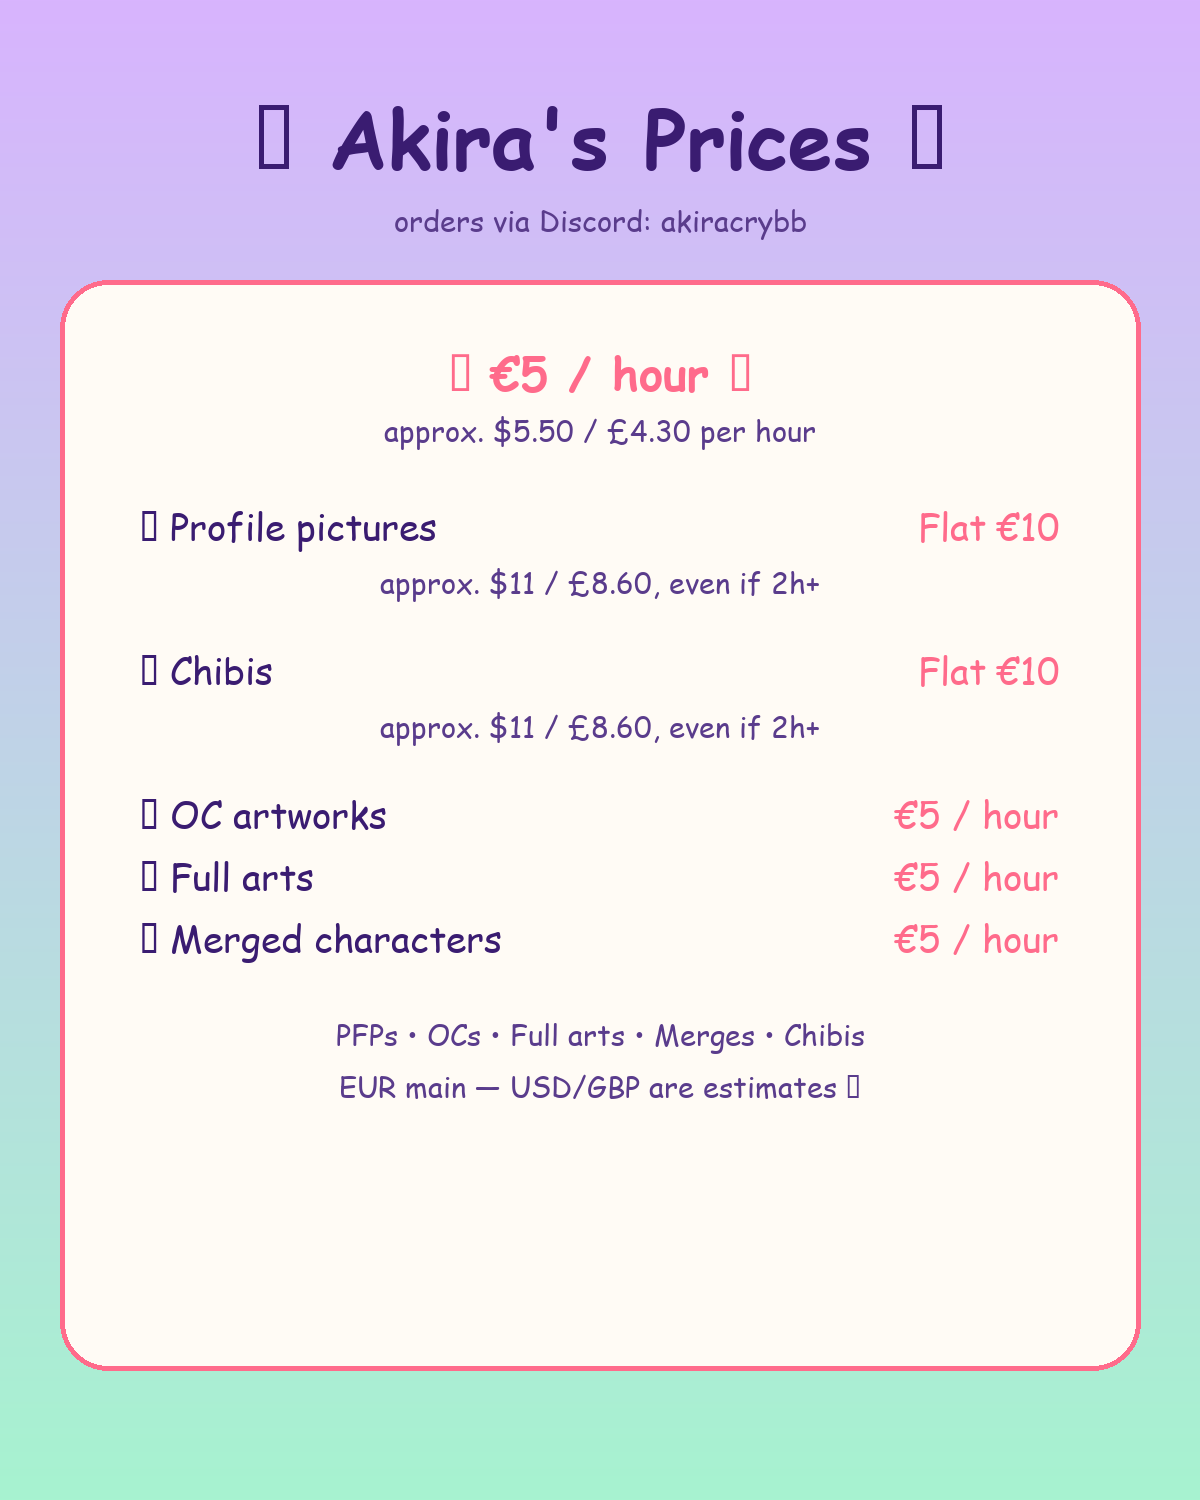
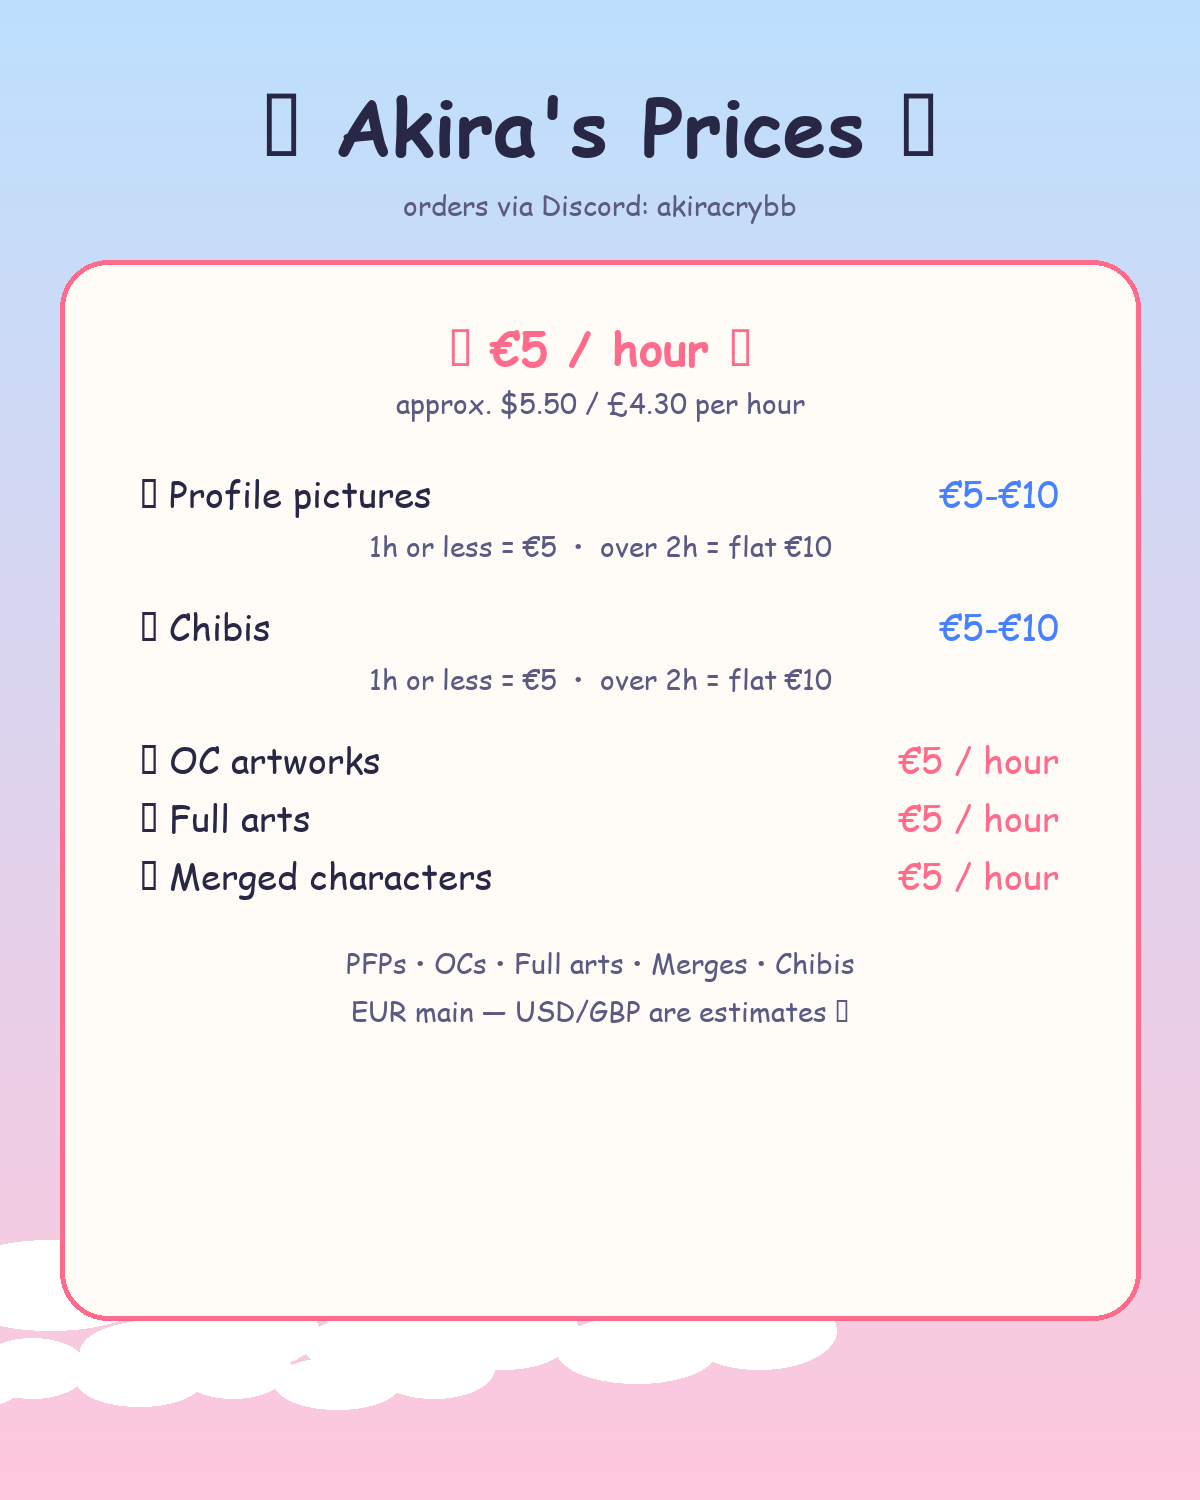
Pricing tiers 5-10, pink-blue with clouds

diff --git a/index.html b/index.html
@@ -112,8 +112,8 @@ dialog#lightbox .close{margin-top:10px;width:100%;font:inherit;background:var(--
 <li><strong>Chibis</strong> — <span class="muted">cute mini style</span></li>
 </ul>
 <h3 class="medium" style="--m:var(--blue)" id="pricing">Pricing chart</h3>
-<p class="muted">€5/hour · PFPs flat €10 · Chibis flat €10 (even if over 2 hours). Click to zoom. <a href="assets/pricing.png">Full PNG</a>.</p>
-<article class="work"><img src="assets/pricing.webp" alt="Pricing chart by Akira: 5 euros per hour, profile pictures and chibis flat 10 euros" loading="lazy" width="1200" height="1500"><div class="body"><h3>Pricing</h3><p>EUR with USD/GBP estimates</p></div></article>
+<p class="muted">€5/hour · PFPs &amp; chibis €5 (1h or less) / flat €10 (over 2h). Click to zoom. <a href="assets/pricing.png">Full PNG</a>.</p>
+<article class="work"><img src="assets/pricing.webp" alt="Pricing chart by Akira: 5 euros per hour, profile pictures and chibis 5 euros if 1 hour or less, flat 10 euros if over 2 hours" loading="lazy" width="1200" height="1500"><div class="body"><h3>Pricing</h3><p>EUR with USD/GBP estimates</p></div></article>
 </section>
 
 <section class="card" id="featured" aria-labelledby="feat-h">
